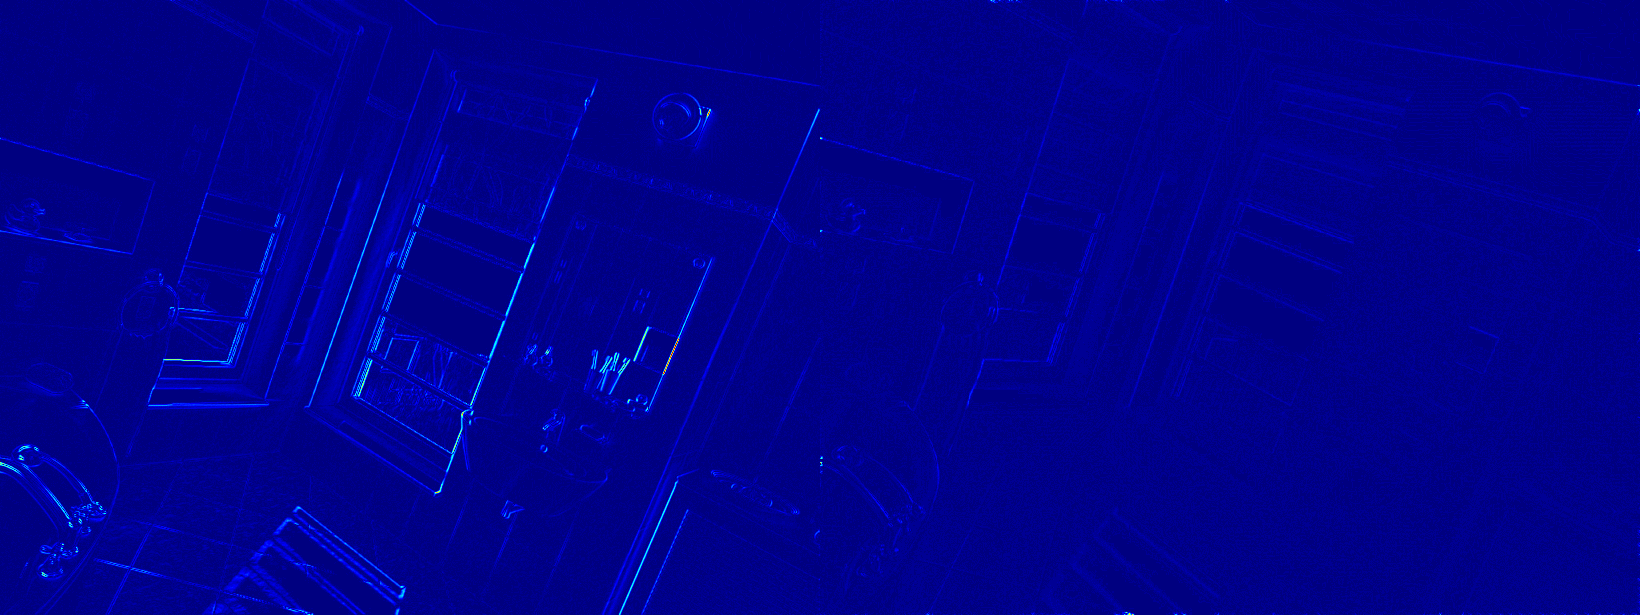
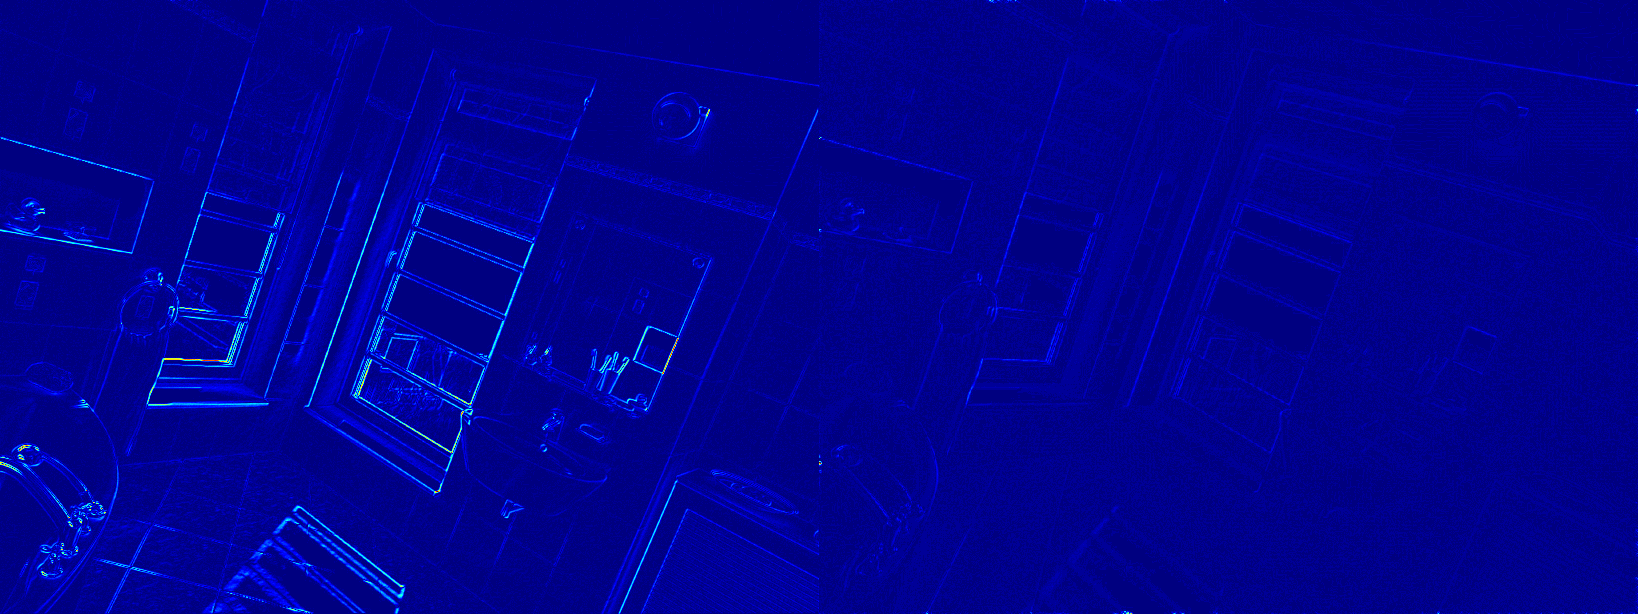
Fix Resize img size

diff --git a/test/test_gaussian_resize.cpp b/test/test_gaussian_resize.cpp
@@ -82,8 +82,8 @@ cv::Mat opencv_gaussian_resize(const cv::Mat& gray) {
     cv::Size ksize(1 + 2 * h, 1 + 2 * h); // kernel size
     cv::GaussianBlur(gray, opencv_gaussian_img, ksize, sigma);
 
-    cv::Size new_size(int(ceil(gray.cols * scale)),
-                      int(ceil(gray.rows * scale)));
+    cv::Size new_size(int(floor(gray.cols * scale)),
+                      int(floor(gray.rows * scale)));
     resize(opencv_gaussian_img, opencv_gaussian_img_resized, new_size, 0, 0, cv::INTER_LINEAR_EXACT);
 
     return opencv_gaussian_img_resized;
@@ -92,8 +92,8 @@ cv::Mat opencv_gaussian_resize(const cv::Mat& gray) {
 cv::Mat pytlsd_gaussian_resize(const cv::Mat& gray) {
 
     auto scale = 0.8;
-    auto new_width = (int) ceil(gray.cols * scale);
-    auto new_height = (int) ceil(gray.rows * scale);
+    auto new_width = (int) floor(gray.cols * scale);
+    auto new_height = (int) floor(gray.rows * scale);
 
     cv::Mat img_flt;
     gray.convertTo(img_flt, CV_64F);
@@ -115,8 +115,8 @@ cv::Mat pytlsd_gaussian_resize(const cv::Mat& gray) {
 cv::Mat custom_gaussian_resize(const cv::Mat& gray) {
     auto *imagePtr = reinterpret_cast<unsigned char *>(gray.data);
 
-    auto new_width = static_cast<int>(std::ceil(gray.cols * gaussian_downsampler->scale));
-    auto new_height = static_cast<int>(std::ceil(gray.rows * gaussian_downsampler->scale));
+    auto new_width = static_cast<int>(std::floor(gray.cols * gaussian_downsampler->scale));
+    auto new_height = static_cast<int>(std::floor(gray.rows * gaussian_downsampler->scale));
     cv::Mat out_img(new_height, new_width, CV_8U);
     auto *outPtr = reinterpret_cast<unsigned char *>(out_img.data);
 

diff --git a/src/GaussianDownsampler.cpp b/src/GaussianDownsampler.cpp
@@ -127,8 +127,8 @@ void GaussianDownsampler::check_new_img_size(int width, int height) {
 
     img_width = width;
     img_height = height;
-    resize_width = static_cast<int>(std::ceil(static_cast<float>(width) * scale));
-    resize_height = static_cast<int>(std::ceil(static_cast<float>(height) * scale));
+    resize_width = static_cast<int>(std::floor(static_cast<float>(width) * scale));
+    resize_height = static_cast<int>(std::floor(static_cast<float>(height) * scale));
     calculate_x_values();
     calculate_y_values();
 }
